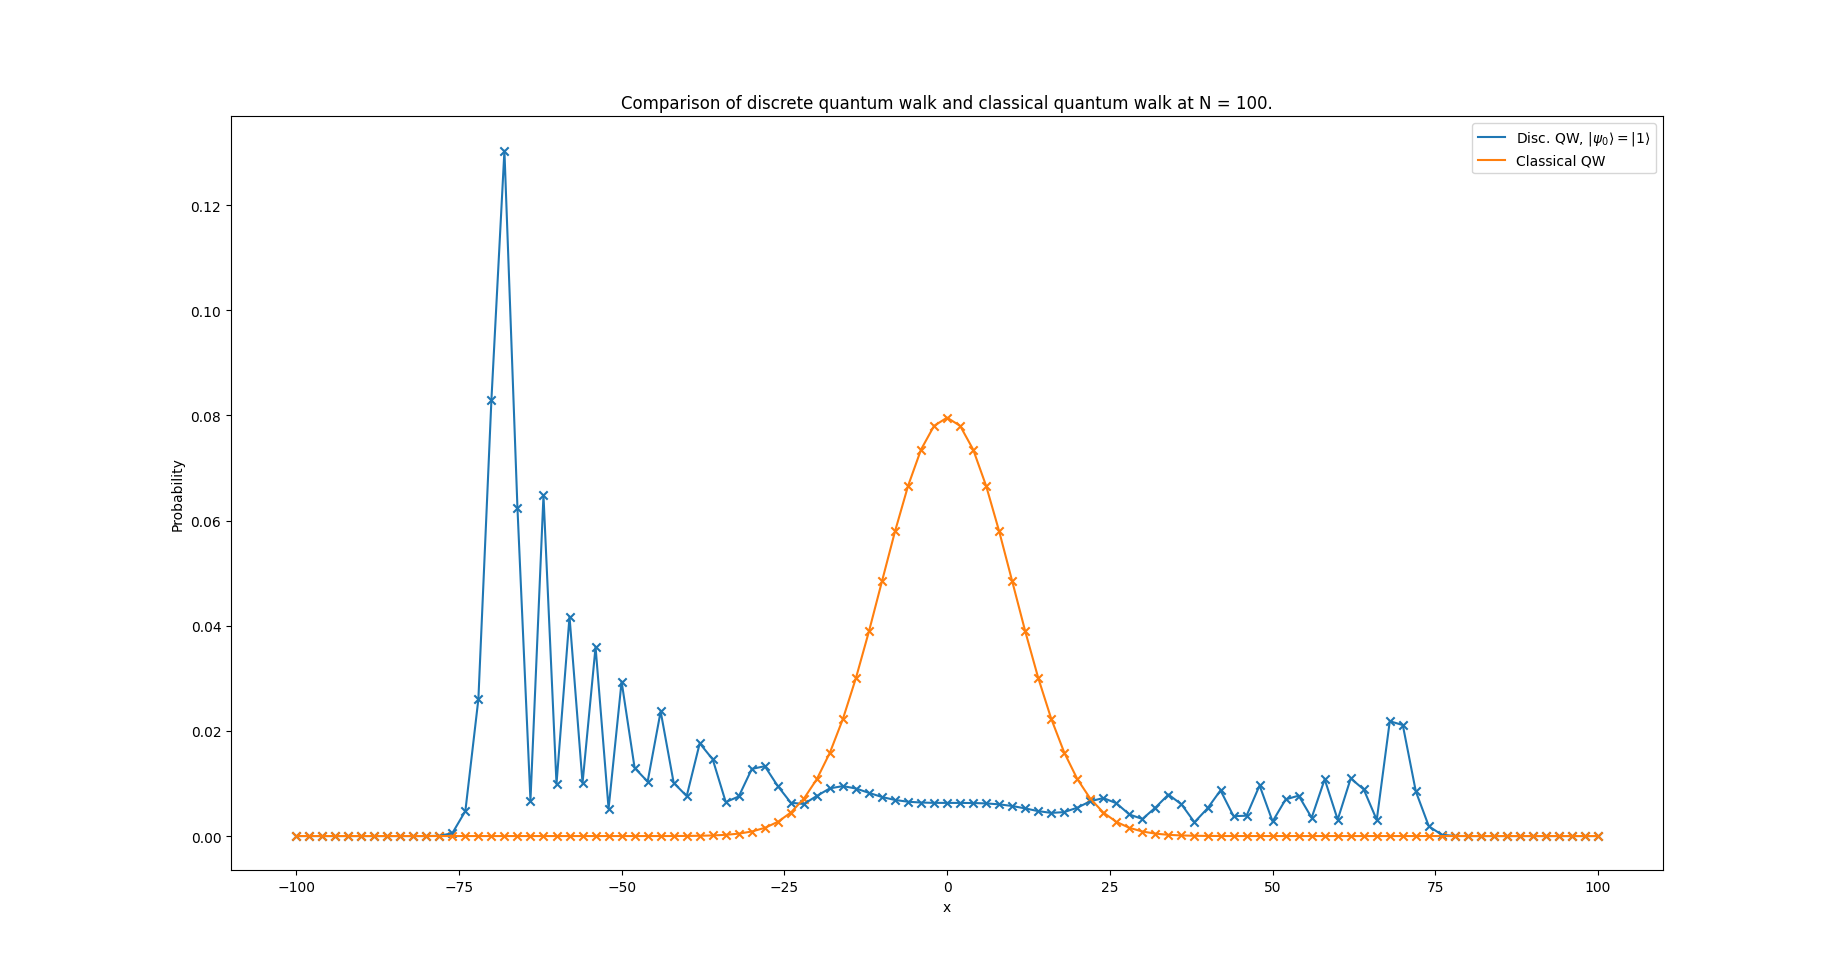
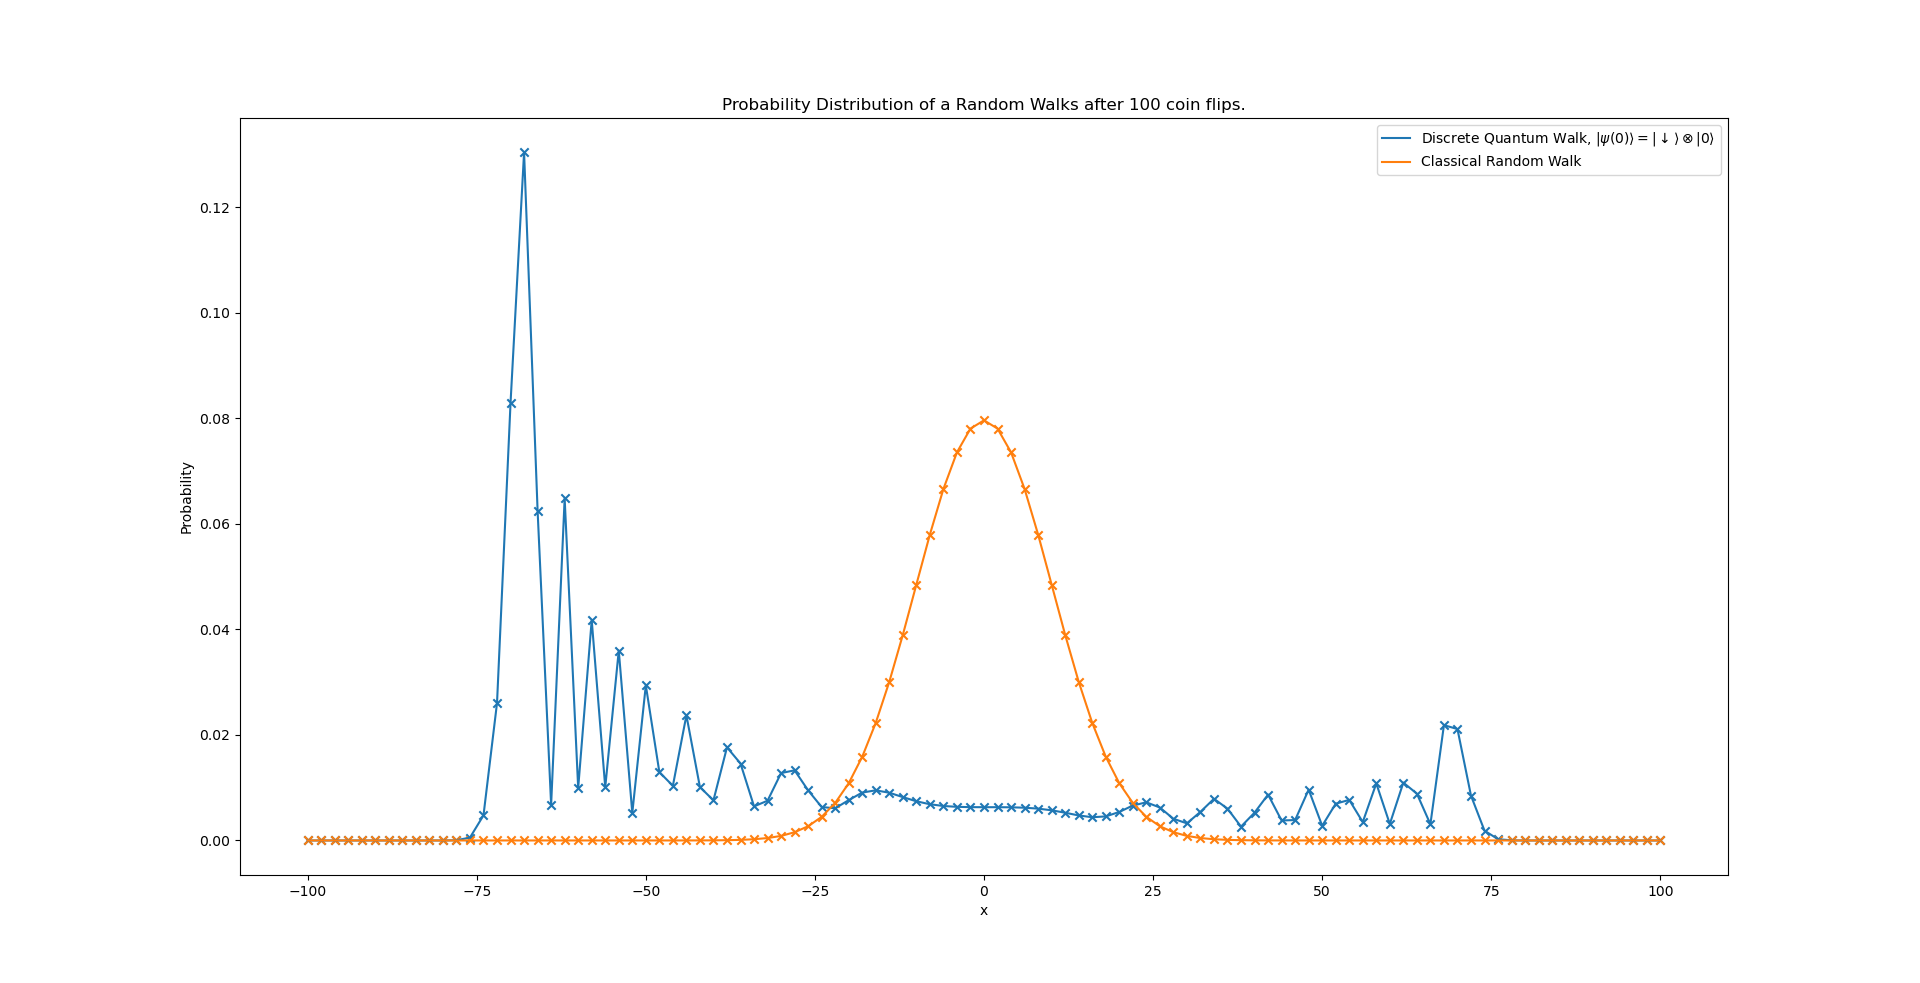
bug fixes and graph update

diff --git a/cyclic_quantum_walk.py b/cyclic_quantum_walk.py
@@ -64,39 +64,13 @@ def coin(eta, delta = 0):
     matrix[1,0] = neg_amp
     return matrix
 
+d = 10
+t = 1
 
-d = 9
-t = 30
+max_iterations = 3
 
-pos0 = np.zeros((d, 1))
-pos0[0] = 1 # start at vertex 0
+bell_state = (2**-0.5) * (np.kron(SPIN_UP, SPIN_UP) + np.kron(SPIN_DOWN, SPIN_DOWN))
 
-h_state0_up = np.kron(pos0, SPIN_UP)
-h_state0_down = np.kron(pos0, SPIN_DOWN)
+coin0 = bell_state
 
-total_state0_summand1 = np.kron(h_state0_up, h_state0_up)
-total_state0_summand2 = np.kron(h_state0_down, h_state0_down)
-
-total_state0 = (1/2**0.5) * (total_state0_summand1 + total_state0_summand2) # Initial total state
-
-# Create operators.
-# Walk operator for the first walk.
-h1_coin_op = coin(1/3)
-h1_walk_operator = disc.eye_kron(d, h1_coin_op)
-h1_walk_operator = np.dot(np.kron(shift_plus(d), H00) + np.kron(shift_minus(d), H11), h1_walk_operator)
-
-# Walk operator for the second walk.
-h2_coin_op = coin(1/7)
-h2_walk_operator = disc.eye_kron(d, h2_coin_op)
-h2_walk_operator = np.dot(np.kron(shift_plus(d), H00) + np.kron(shift_minus(d), H11), h2_walk_operator)
-
-# Total walk operator.
-total_walk_operator = np.kron(h1_walk_operator, h2_walk_operator)
-
-for i in range(t + 1):
-    total_statet = np.dot(np.linalg.matrix_power(total_walk_operator, i), total_state0)
-    total_rhot = np.outer(total_statet, total_statet)
-    reduced_rhot = partial_trace(total_rhot, (d,2,d,2), 1)
-    reduced_rhot = partial_trace(reduced_rhot, (d,d,2), 2)
-    reduced_rhot = partial_trace(reduced_rhot, (d,d), 0)
-    print(entanglement(reduced_rhot, base = d))
+posn0 = 

diff --git a/quantum_custom/walks/discrete.py b/quantum_custom/walks/discrete.py
@@ -63,12 +63,13 @@ def prob(state, N):
     position_count = 2 * N + 1
     probs = np.empty(position_count)
     for k in range(position_count):
-        posn = np.zeros(position_count)
+        posn = np.zeros((position_count, 1))
         posn[k] = 1
         posn_outer = np.outer(posn, posn)
-        alt_measurement_k = eye_kron(2, posn_outer)
-        proj = alt_measurement_k.dot(state)
-        probs[k] = proj.dot(proj.conjugate()).real       
+        measurement_k = np.kron(np.identity(2), posn_outer)
+        proj = measurement_k.dot(state)
+        prob = proj.T.dot(proj.conjugate())[0][0].real
+        probs[k] = prob
     return probs
 
 def eye_kron(eye_dim, mat):
@@ -149,7 +150,7 @@ def pdf(x, N, spin0):
     positions = 2 * N + 1
 
     #initial conditions
-    position0 = np.zeros(positions)
+    position0 = np.zeros((positions, 1))
     position0[N] = 1
     state0 = np.kron(spin0, position0) #initial state in complete Hilbert space is initial spin tensor product with the initial position.
     quantum_state = QuantumState(state0)

diff --git a/discrete_quantum_walk.py b/discrete_quantum_walk.py
@@ -18,10 +18,10 @@ disc_walk = disc.pdf(x_disc, disc_N, spin0)
 classc_walk = classc.pdf(x_disc, disc_N)
 
 # Plot the graph
-# xs = [disc_walk.x, classc_walk.x]
-# ys = [disc_walk.y, classc_walk.y]
-xs = [classc_walk.x]
-ys = [classc_walk.y]
-labels = ["Classical Random Walk"]
-title = "Probability Distribution of a Random Walk after 100 coin flips."
+xs = [disc_walk.x, classc_walk.x]
+ys = [disc_walk.y, classc_walk.y]
+# xs = [classc_walk.x]
+# ys = [classc_walk.y]
+labels = [r"Discrete Quantum Walk, $|\psi(0)\rangle = |\downarrow\rangle \otimes |0\rangle$", "Classical Random Walk"]
+title = "Probability Distribution of a Random Walks after 100 coin flips."
 plot(xs, ys, labels = labels, title = title)

diff --git a/quantum_custom/core.py b/quantum_custom/core.py
@@ -222,7 +222,7 @@ def partial_transpose(matrix, dims, transpose):
     tensor = matrix.reshape(dims + dims) # Reshape the matrix into a tensor with indices representing each constituent subspace.
 
     # Create a list of the axes indices and swap the indices of the axes corresponding to the subspace we want to transpose.
-    axes = list(len(tensor.shape))
+    axes = list(range(len(tensor.shape)))
     axes[transpose], axes[transpose + n_subspaces] = axes[transpose + n_subspaces], axes[transpose]
 
     result = np.transpose(tensor, axes = axes)

diff --git a/discrete_quantum_walk_entanglement.py b/discrete_quantum_walk_entanglement.py
@@ -56,7 +56,7 @@ def partial_trace(matrix, dims, trace_over):
     result = result.reshape(resultant_space_dim, resultant_space_dim)
     return result
 
-#spin0 = core.SPIN_UP
+spin0 = core.SPIN_UP
 spin0 = np.array([1,0])
 x = np.arange(1, 100)
 y = []
